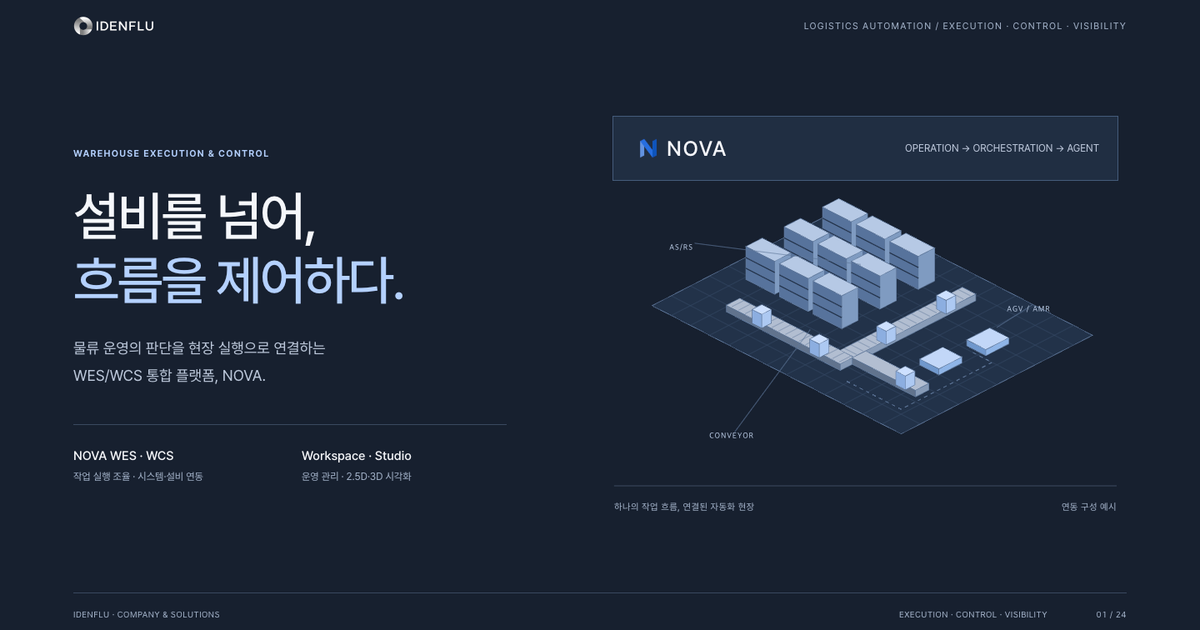
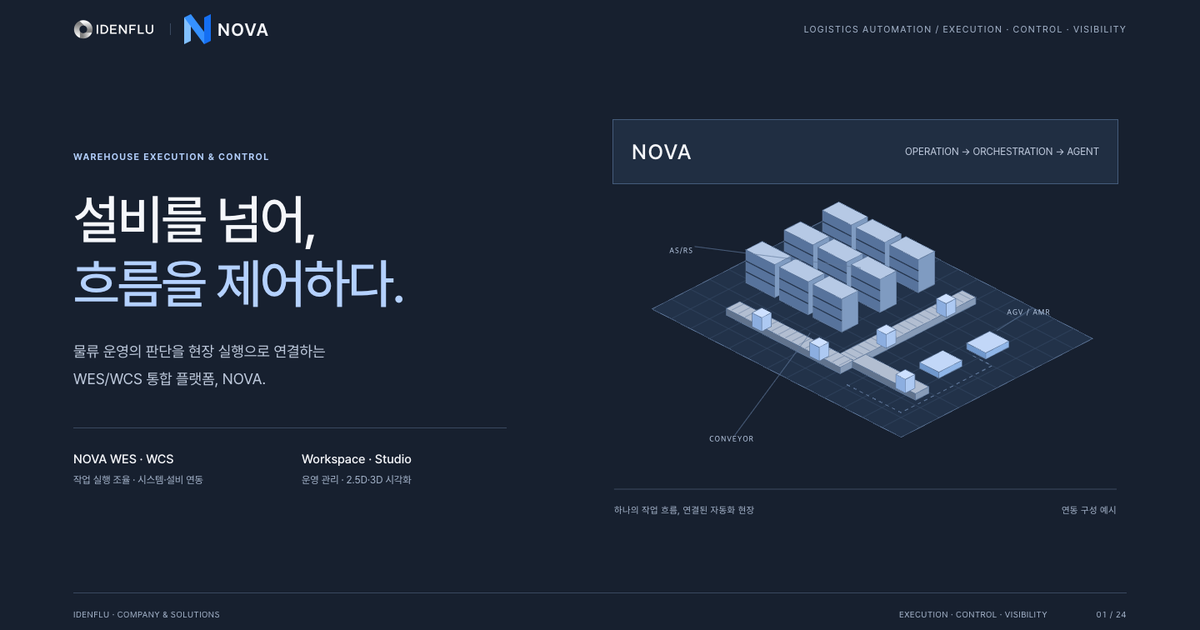
feat: feature NOVA N mark on cover and contact slides

diff --git a/src/slides/ko/01-cover.html b/src/slides/ko/01-cover.html
@@ -1,12 +1,19 @@
 <section class="page theme-dark" aria-labelledby="cover-title" tabindex="-1" aria-roledescription="슬라이드">
-  <header class="topline"><img src="{{base}}idenflu-ci-mono.png" width="100" height="26" alt="IDENFLU"><span>LOGISTICS AUTOMATION / EXECUTION · CONTROL · VISIBILITY</span></header>
+  <header class="topline branded-topline">
+    <span class="brand">
+      <img src="{{base}}idenflu-ci-mono.png" width="100" height="26" alt="IDENFLU">
+      <i aria-hidden="true"></i>
+      <strong class="nova-brand"><img src="{{base}}nova-mark.png" width="32" height="36" alt="">NOVA</strong>
+    </span>
+    <span>LOGISTICS AUTOMATION / EXECUTION · CONTROL · VISIBILITY</span>
+  </header>
 
   <div class="hero">
     <div class="hero-copy"><p class="kicker">WAREHOUSE EXECUTION &amp; CONTROL</p><h1 id="cover-title">설비를 넘어,<br><em>흐름을 제어하다.</em></h1>
       <p class="lead">물류 운영의 판단을 현장 실행으로 연결하는<br>WES/WCS 통합 플랫폼, NOVA.</p>
       <div class="hero-products"><div><strong>NOVA WES · WCS</strong><small>작업 실행 조율 · 시스템·설비 연동</small></div><div><strong>Workspace · Studio</strong><small>운영 관리 · 2.5D·3D 시각화</small></div></div>
     </div>
-    <figure class="hero-visual"><div class="platform-label"><strong><img src="{{base}}nova-symbol.png" width="40" height="40" alt="">NOVA</strong><span>OPERATION → ORCHESTRATION → AGENT</span></div><!--@include partials/warehouse-scene-dark.svg aria-label="자동창고 랙과 컨베이어, 무인 이송 장비가 연결된 물류센터 배치 예시"--><figcaption class="scene-caption"><span>하나의 작업 흐름, 연결된 자동화 현장</span><span>연동 구성 예시</span></figcaption></figure>
+    <figure class="hero-visual"><div class="platform-label"><strong>NOVA</strong><span>OPERATION → ORCHESTRATION → AGENT</span></div><!--@include partials/warehouse-scene-dark.svg aria-label="자동창고 랙과 컨베이어, 무인 이송 장비가 연결된 물류센터 배치 예시"--><figcaption class="scene-caption"><span>하나의 작업 흐름, 연결된 자동화 현장</span><span>연동 구성 예시</span></figcaption></figure>
   </div>
   <footer class="footer"><span>IDENFLU · COMPANY &amp; SOLUTIONS</span><span class="footer-topic">EXECUTION · CONTROL · VISIBILITY</span><span class="footer-page"></span></footer>
 </section>

diff --git a/src/slides/en/01-cover.html b/src/slides/en/01-cover.html
@@ -1,12 +1,19 @@
 <section class="page theme-dark" aria-labelledby="cover-title" tabindex="-1" aria-roledescription="slide">
-  <header class="topline"><img src="{{base}}idenflu-ci-mono.png" width="100" height="26" alt="IDENFLU"><span>LOGISTICS AUTOMATION / EXECUTION · CONTROL · VISIBILITY</span></header>
+  <header class="topline branded-topline">
+    <span class="brand">
+      <img src="{{base}}idenflu-ci-mono.png" width="100" height="26" alt="IDENFLU">
+      <i aria-hidden="true"></i>
+      <strong class="nova-brand"><img src="{{base}}nova-mark.png" width="32" height="36" alt="">NOVA</strong>
+    </span>
+    <span>LOGISTICS AUTOMATION / EXECUTION · CONTROL · VISIBILITY</span>
+  </header>
 
   <div class="hero">
     <div class="hero-copy"><p class="kicker">WAREHOUSE EXECUTION &amp; CONTROL</p><h1 id="cover-title">Beyond equipment,<br><em>control the flow.</em></h1>
       <p class="lead">Turning logistics decisions into site execution:<br>NOVA, the integrated WES/WCS platform.</p>
       <div class="hero-products"><div><strong>NOVA WES · WCS</strong><small>Orchestration · System &amp; equipment links</small></div><div><strong>Workspace · Studio</strong><small>Operations · 2.5D/3D visualization</small></div></div>
     </div>
-    <figure class="hero-visual"><div class="platform-label"><strong><img src="{{base}}nova-symbol.png" width="40" height="40" alt="">NOVA</strong><span>OPERATION → ORCHESTRATION → AGENT</span></div><!--@include partials/warehouse-scene-dark.svg aria-label="Example distribution center layout linking AS/RS racks, conveyors and automated transport vehicles"--><figcaption class="scene-caption"><span>One workflow, one connected automated site</span><span>Example integration setup</span></figcaption></figure>
+    <figure class="hero-visual"><div class="platform-label"><strong>NOVA</strong><span>OPERATION → ORCHESTRATION → AGENT</span></div><!--@include partials/warehouse-scene-dark.svg aria-label="Example distribution center layout linking AS/RS racks, conveyors and automated transport vehicles"--><figcaption class="scene-caption"><span>One workflow, one connected automated site</span><span>Example integration setup</span></figcaption></figure>
   </div>
   <footer class="footer"><span>IDENFLU · COMPANY &amp; SOLUTIONS</span><span class="footer-topic">EXECUTION · CONTROL · VISIBILITY</span><span class="footer-page"></span></footer>
 </section>

diff --git a/src/slides/ko/24-contact.html b/src/slides/ko/24-contact.html
@@ -1,5 +1,12 @@
 <section class="page theme-dark" aria-labelledby="contact-title" tabindex="-1" aria-roledescription="슬라이드" hidden>
-  <header class="topline"><img src="{{base}}idenflu-ci-mono.png" width="100" height="26" alt="IDENFLU"><span>LOGISTICS AUTOMATION / LET’S CONNECT YOUR OPERATIONS</span></header>
+  <header class="topline branded-topline">
+    <span class="brand">
+      <img src="{{base}}idenflu-ci-mono.png" width="100" height="26" alt="IDENFLU">
+      <i aria-hidden="true"></i>
+      <strong class="nova-brand"><img src="{{base}}nova-mark.png" width="32" height="36" alt="">NOVA</strong>
+    </span>
+    <span>LOGISTICS AUTOMATION / LET’S CONNECT YOUR OPERATIONS</span>
+  </header>
 
   <div class="closing-layout"><div class="closing-copy"><p class="kicker">START WITH YOUR OPERATION</p><h2 id="contact-title">개선할 업무부터,<br>함께 이야기해 주세요.</h2><p class="lead">기존 현장 개선부터 자동화 확장, 신규 구축까지.<br>현장의 운영 조건에 맞는 적용 범위를 함께 살펴봅니다.</p><a class="contact-link" href="mailto:sales@idenflu.com">sales@idenflu.com <span aria-hidden="true">↗</span></a><p class="company-copy">㈜아이덴플루 · <a href="https://idenflu.com" target="_blank" rel="noopener noreferrer">idenflu.com ↗</a><br>서울 구로구 디지털로 300, 12층 1248호</p></div><aside class="brief-panel"><p>DISCOVERY CHECKLIST</p><div class="brief-item"><span class="number">01</span><div><h3>현재 운영의 과제</h3><p>대기·병목·수동 개입이 발생하는 업무와 공정</p></div></div><div class="brief-item"><span class="number">02</span><div><h3>연결할 시스템과 설비</h3><p>기존 WMS·ERP·MES, 설비·제어기·관제 구성</p></div></div><div class="brief-item"><span class="number">03</span><div><h3>우선 적용 범위</h3><p>먼저 개선할 구간과 확장 계획, 확인할 운영 지표</p></div></div><div class="expertise-line"><span>시스템 구축</span><span>시스템·설비 연동</span><span>운영 지원·유지보수</span></div></aside></div>
   <footer class="footer"><span>IDENFLU · COMPANY &amp; SOLUTIONS</span><span class="footer-topic">LET’S CONNECT YOUR OPERATIONS</span><span class="footer-page"></span></footer>

diff --git a/src/slides/en/24-contact.html b/src/slides/en/24-contact.html
@@ -1,5 +1,12 @@
 <section class="page theme-dark" aria-labelledby="contact-title" tabindex="-1" aria-roledescription="slide" hidden>
-  <header class="topline"><img src="{{base}}idenflu-ci-mono.png" width="100" height="26" alt="IDENFLU"><span>LOGISTICS AUTOMATION / LET’S CONNECT YOUR OPERATIONS</span></header>
+  <header class="topline branded-topline">
+    <span class="brand">
+      <img src="{{base}}idenflu-ci-mono.png" width="100" height="26" alt="IDENFLU">
+      <i aria-hidden="true"></i>
+      <strong class="nova-brand"><img src="{{base}}nova-mark.png" width="32" height="36" alt="">NOVA</strong>
+    </span>
+    <span>LOGISTICS AUTOMATION / LET’S CONNECT YOUR OPERATIONS</span>
+  </header>
 
   <div class="closing-layout"><div class="closing-copy"><p class="kicker">START WITH YOUR OPERATION</p><h2 id="contact-title">Start with the process<br>you want to improve.</h2><p class="lead">From improving existing sites to expanding automation or building new.<br>We will scope it together around your operating conditions.</p><a class="contact-link" href="mailto:sales@idenflu.com">sales@idenflu.com <span aria-hidden="true">↗</span></a><p class="company-copy">IDENFLU Co., Ltd. · <a href="https://idenflu.com" target="_blank" rel="noopener noreferrer">idenflu.com ↗</a><br>Room 1248, 12F, 300 Digital-ro, Guro-gu, Seoul, Korea</p></div><aside class="brief-panel"><p>DISCOVERY CHECKLIST</p><div class="brief-item"><span class="number">01</span><div><h3>Current challenges</h3><p>Processes with waits, bottlenecks or manual work</p></div></div><div class="brief-item"><span class="number">02</span><div><h3>Systems and equipment to connect</h3><p>Existing WMS/ERP/MES, equipment, controllers, fleet systems</p></div></div><div class="brief-item"><span class="number">03</span><div><h3>Initial scope</h3><p>Areas to improve first, expansion plans, metrics to track</p></div></div><div class="expertise-line"><span>System implementation</span><span>System &amp; equipment integration</span><span>Support and maintenance</span></div></aside></div>
   <footer class="footer"><span>IDENFLU · COMPANY &amp; SOLUTIONS</span><span class="footer-topic">LET’S CONNECT YOUR OPERATIONS</span><span class="footer-page"></span></footer>

diff --git a/src/styles.css b/src/styles.css
@@ -36,6 +36,9 @@ button { font: inherit; }
 .brand { display: flex; align-items: center; gap: 16px; color: var(--ink); font-size: 16px; font-weight: 650; letter-spacing: .08em; }
 .brand i { width: 1px; height: 14px; background: var(--line); }
 .brand b { color: var(--subtle); font-size: 12px; font-weight: 500; letter-spacing: .06em; }
+.branded-topline { min-height: 36px; }
+.nova-brand { display: inline-flex; align-items: center; gap: 8px; font-size: 21px; line-height: 1; font-weight: 600; }
+.nova-brand img { filter: brightness(1.35); }
 .footer { display: flex; justify-content: space-between; align-items: center; gap: 20px; flex: none; height: 36px; margin-top: auto; padding-top: 15px; border-top: 1px solid var(--line); font-size: 10px; color: var(--subtle); letter-spacing: .05em; }
 .footer-topic { margin-left: auto; margin-right: 28px; }
 .footer span:last-child { min-width: 47px; text-align: right; font-variant-numeric: tabular-nums; }
@@ -67,7 +70,7 @@ button { font: inherit; }
 .hero-products small { display: block; margin-top: 4px; color: var(--subtle); font-size: 12px; }
 .hero-visual { position: relative; padding: 24px 0; }
 .platform-label { display: flex; align-items: center; justify-content: space-between; margin: 0 10px; padding: 18px 22px; border: 1px solid #455c7b; background: #202d42; }
-.platform-label strong { display: inline-flex; align-items: center; gap: 2px; font-size: 25px; letter-spacing: .06em; font-weight: 500; }
+.platform-label strong { font-size: 25px; letter-spacing: .06em; font-weight: 500; }
 .platform-label span { color: var(--muted); font-size: 12px; }
 .warehouse-scene { display: block; width: 100%; height: auto; }
 .scene-caption { display: flex; justify-content: space-between; margin: 0 12px; padding-top: 16px; border-top: 1px solid var(--line); color: var(--subtle); font-size: 11px; letter-spacing: .04em; }
